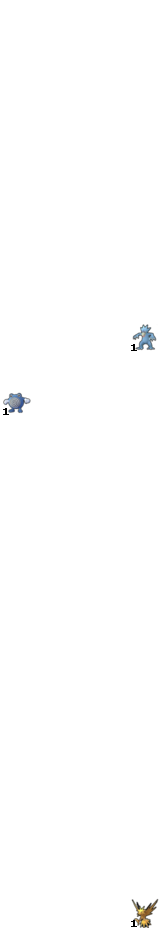
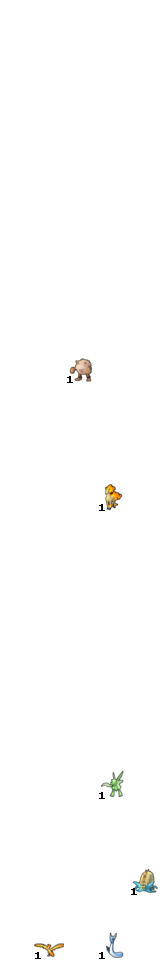
pic

diff --git a/tinydb_interface.py b/tinydb_interface.py
@@ -29,6 +29,8 @@ class TinyDbInterface:
 
     # Increment the pokemon count in an array
     def IncrementPokeArr(self, arr, pokemonIndex):
+        if(pokemonIndex == 0):
+            pokemonIndex=+1
         pokemonIndex = int(pokemonIndex)
         # print(arr)
         arr[pokemonIndex] = arr[pokemonIndex] + 1
@@ -36,6 +38,9 @@ class TinyDbInterface:
 
     # Decrement the pokemon count in an array
     def DecrementPokeArr(self, arr, pokemonCt, index):
+        if(pokemonIndex == 0):
+            pokemonIndex=+1
+
         pokemonIndex = int(pokemonIndex)
         # print(arr)
         arr[pokemonIndex] = arr[pokemonIndex] - 1
@@ -89,7 +94,7 @@ class TinyDbInterface:
     # Set pokemon arr to index integers
     def SetPokemon(self):
         arr = []
-        arr = array('i',(i for i in range(0,153))) # INIT array with index
+        arr = array('i',(i for i in range(0,152))) # INIT array with index
 
         return arr
 
@@ -101,7 +106,7 @@ class TinyDbInterface:
 
     # Add user (each user is an array of 150)
     def AddUser(self, username, chatid):
-        my_pokemon = [0] * 153 # Matching arr index to pokemon index (0 is disregarded)
+        my_pokemon = [0] * 151 # Matching arr index to pokemon index (0 is disregarded)
 
         db = TinyDB('users.json')
         db.insert({'username': username, 'chatid': chatid, 'pokemon': my_pokemon})
@@ -192,7 +197,7 @@ class TinyDbInterface:
      
         # WARNING - if pokemon are released, they will also be removed from pokedex
         # SOLUTION? - add field to db saying whether they have been caught or not, and iterate over that
-        ret = "Caught: {}".format(caught) if (caught > 0) else ""
+        ret = ("Caught: {} \n" + pokedex).format(caught) if (caught > 0) else ""
         return ret
 
 

diff --git a/utility.py b/utility.py
@@ -27,10 +27,11 @@ def user_pokedex(dex_obj):
     for i in range(0, min(len(dex_obj), 150)):
         if dex_obj[i] > 0:
             # Also return number obtained
-            draw = ImageDraw.Draw(images[i])
+            draw = ImageDraw.Draw(images[i-1])
             draw.text((1, 20), str(dex_obj[i]), fill=(0,0,0,255))
             # Then paste the image onto the pokedex background
-            background.paste(images[i], (x, y))
+            background.paste(images[i-1], (x, y))
+        # when to /r/n
         if i%5 != 4:
             x = x+30+2
         else:
